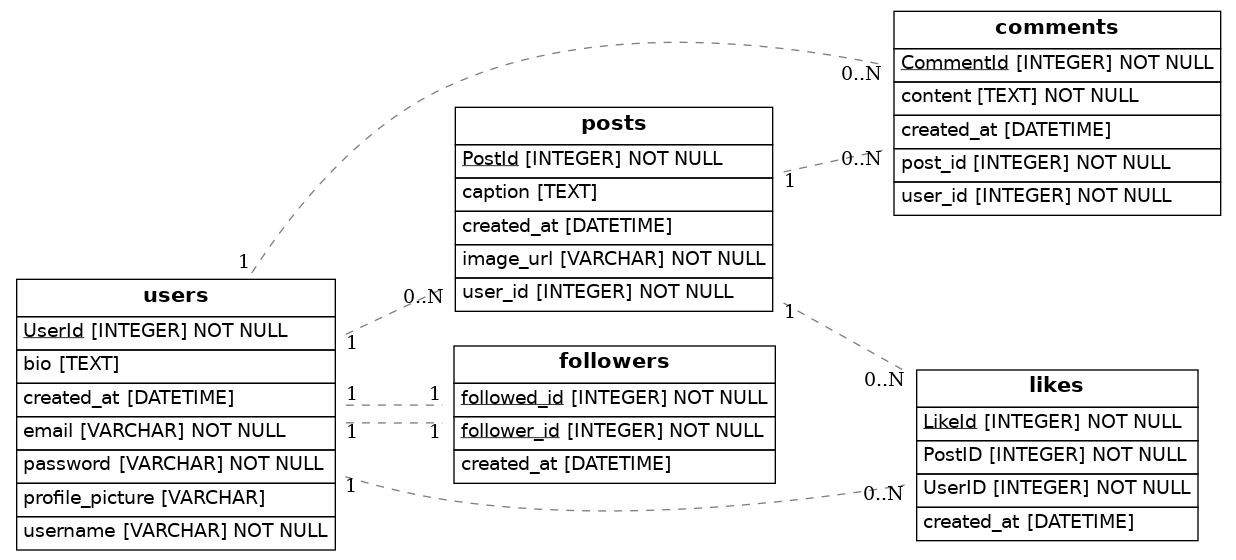
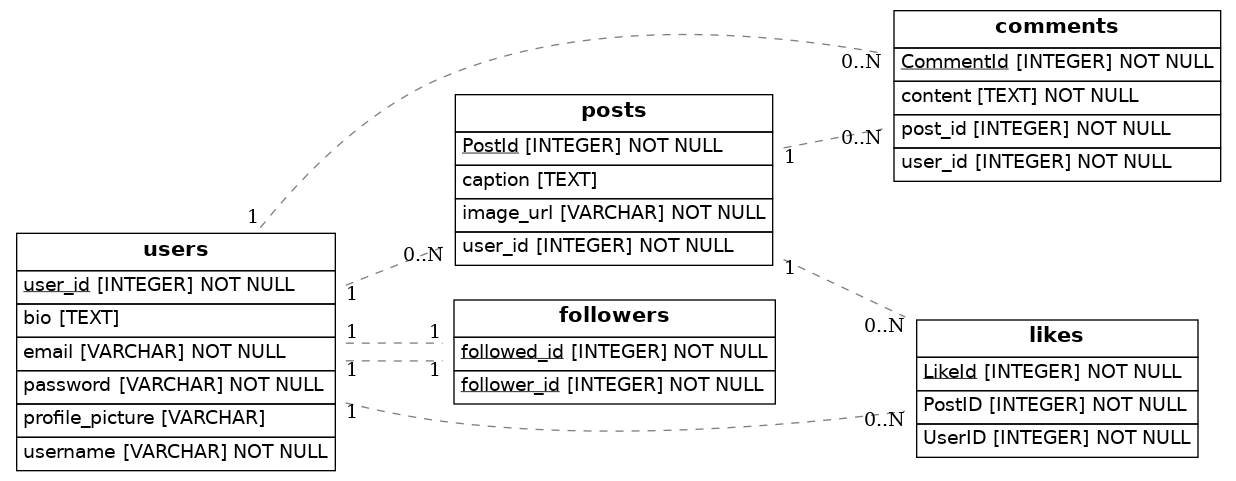
Trabajo Terminado

diff --git a/src/models.py b/src/models.py
@@ -1,79 +1,73 @@
 import os
-import sys
-from sqlalchemy import Column, Integer, String, Text, ForeignKey, DateTime, Table, UniqueConstraint
+from sqlalchemy import Column, Integer, String, Text, ForeignKey, UniqueConstraint, create_engine
 from sqlalchemy.orm import relationship, declarative_base
-from sqlalchemy import create_engine
 from eralchemy2 import render_er
-import datetime
 
 Base = declarative_base()
 
 class User(Base):
     __tablename__ = 'users'
 
-    UserId = Column(Integer, primary_key=True)
+    user_id = Column(Integer, primary_key=True)
     username = Column(String, nullable=False, unique=True)
     email = Column(String, nullable=False, unique=True)
     password = Column(String, nullable=False)
     profile_picture = Column(String, nullable=True)
     bio = Column(Text, nullable=True)
-    created_at = Column(DateTime, default=datetime.datetime.now)
 
-    posts = relationship("Post", back_populates="user", cascade="all, delete-orphan")
-    comments = relationship("Comment", back_populates="user", cascade="all, delete-orphan")
-    likes = relationship("Like", back_populates="user", cascade="all, delete-orphan")
-    followers = relationship("Follower", foreign_keys='Follower.followed_id', cascade="all, delete-orphan")
-    following = relationship("Follower", foreign_keys='Follower.follower_id', cascade="all, delete-orphan")
+    posts = relationship("Post", back_populates="user")
+    comments = relationship("Comment", back_populates="user")
+    likes = relationship("Like", back_populates="user")
+    followers = relationship("Follower", foreign_keys="[lambda: Follower.followed_id]")
+    following = relationship("Follower", foreign_keys="[lambda: Follower.follower_id]")
 
 class Post(Base):
     __tablename__ = 'posts'
 
     PostId = Column(Integer, primary_key=True)
-    user_id = Column(Integer, ForeignKey('users.UserId', ondelete='CASCADE'), nullable=False)
+    user_id = Column(Integer, ForeignKey('users.user_id'), nullable=False)
     image_url = Column(String, nullable=False)
     caption = Column(Text, nullable=True)
-    created_at = Column(DateTime, default=datetime.datetime.now)
 
     user = relationship("User", back_populates="posts")
-    comments = relationship("Comment", back_populates="post", cascade="all, delete-orphan")
-    likes = relationship("Like", back_populates="post", cascade="all, delete-orphan")
+    comments = relationship("Comment", back_populates="post")
+    likes = relationship("Like", back_populates="post")
 
 class Comment(Base):
     __tablename__ = 'comments'
 
     CommentId = Column(Integer, primary_key=True)
-    post_id = Column(Integer, ForeignKey('posts.PostId', ondelete='CASCADE'), nullable=False)
-    user_id = Column(Integer, ForeignKey('users.UserId', ondelete='CASCADE'), nullable=False)
+    post_id = Column(Integer, ForeignKey('posts.PostId'), nullable=False)
+    user_id = Column(Integer, ForeignKey('users.user_id'), nullable=False)
     content = Column(Text, nullable=False)
-    created_at = Column(DateTime, default=datetime.datetime.now)
 
     post = relationship("Post", back_populates="comments")
     user = relationship("User", back_populates="comments")
 
 class Follower(Base):
     __tablename__ = 'followers'
-    __table_args__ = (UniqueConstraint('follower_id', 'followed_id', name='_follower_followed_uc'),)
 
-    follower_id = Column(Integer, ForeignKey('users.UserId', ondelete='CASCADE'), primary_key=True)
-    followed_id = Column(Integer, ForeignKey('users.UserId', ondelete='CASCADE'), primary_key=True)
-    created_at = Column(DateTime, default=datetime.datetime.now)
+    follower_id = Column(Integer, ForeignKey('users.user_id'), primary_key=True)
+    followed_id = Column(Integer, ForeignKey('users.user_id'), primary_key=True)
 
 class Like(Base):
     __tablename__ = 'likes'
-    __table_args__ = (UniqueConstraint('PostID', 'UserID', name='_post_user_uc'),)
 
     LikeId = Column(Integer, primary_key=True)
-    PostID = Column(Integer, ForeignKey('posts.PostId', ondelete='CASCADE'), nullable=False)
-    UserID = Column(Integer, ForeignKey('users.UserId', ondelete='CASCADE'), nullable=False)
-    created_at = Column(DateTime, default=datetime.datetime.now)
+    PostID = Column(Integer, ForeignKey('posts.PostId'), nullable=False)
+    UserID = Column(Integer, ForeignKey('users.user_id'), nullable=False)
 
     post = relationship("Post", back_populates="likes")
     user = relationship("User", back_populates="likes")
 
+
+
 ## Draw from SQLAlchemy base
 try:
-    result = render_er(Base, 'diagram.png')
+    engine = create_engine('sqlite:///:memory:')  # Usa tu URL de base de datos
+    Base.metadata.create_all(engine)
+    render_er(Base, 'diagram.png')
     print("Success! Check the diagram.png file")
 except Exception as e:
-    print("There was a problem genering the diagram")
+    print("There was a problem generating the diagram")
     raise e
